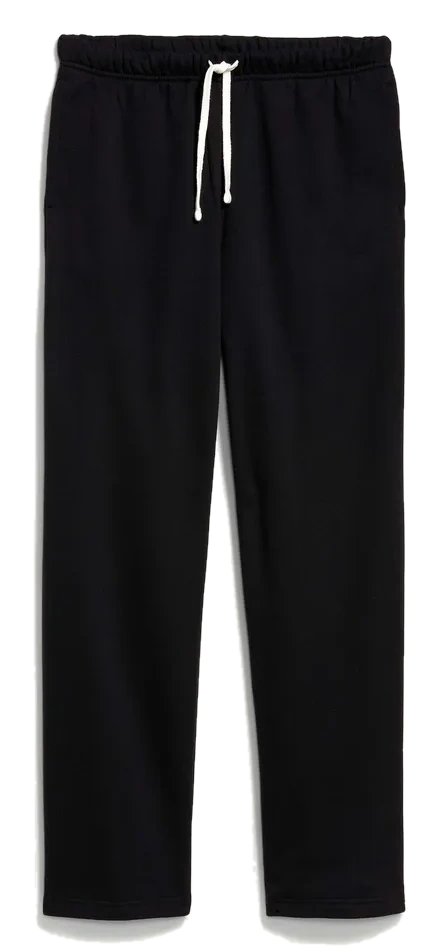
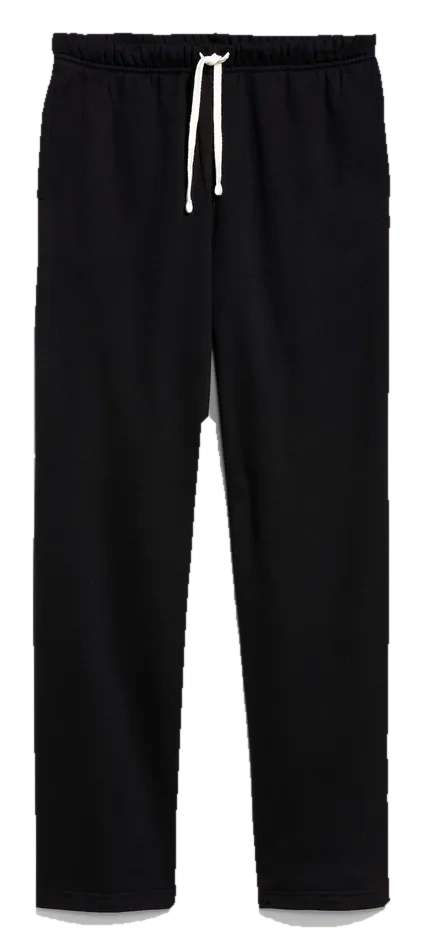
Restore original Polo and Fjallraven product framing

diff --git a/index.html b/index.html
@@ -27,7 +27,7 @@
 </main><footer class="footer"><span>Panoply · The Closet</span><span>Easy pieces, good fit, room to evolve.</span></footer>
 </div>
 <dialog id="detail"><button class="close" aria-label="Close">×</button><div class="modal-photo" id="modalPhoto"></div><div class="modal-info"><div class="card-kicker" id="modalCategory"></div><div class="card-brand" id="modalBrand"></div><h2 id="modalName"></h2><p id="modalColor"></p><p id="modalMeta" class="modal-meta"></p></div></dialog>
-<script id="wardrobe-data" type="application/json">{"styles":39,"pieces":46,"items":[{"brand":"Ralph Lauren","name":"Featherweight Mesh Shirt","color":"White","category":"Button-downs","group":"tops","quantity":2,"image":"assets/cutouts/ralph-lauren-featherweight-mesh-white.webp"},{"brand":"Ralph Lauren","name":"Featherweight Mesh Shirt","color":"Aviator Navy","category":"Button-downs","group":"tops","quantity":2,"image":"assets/cutouts/ralph-lauren-featherweight-mesh-aviator-navy.webp"},{"brand":"Ralph Lauren","name":"The Iconic Mesh Polo Shirt","color":"White","category":"Polos","group":"tops","quantity":1,"image":"assets/cutouts/ralph-lauren-iconic-mesh-polo-white.webp"},{"brand":"Ralph Lauren","name":"The Iconic Mesh Polo Shirt","color":"Light Navy","category":"Polos","group":"tops","quantity":1,"image":"assets/cutouts/ralph-lauren-iconic-mesh-polo-light-navy.webp"},{"brand":"L.L.Bean","name":"Carefree Unshrinkable T-Shirt Without Pocket, Short Sleeve","color":"Black","category":"Tees","group":"tops","quantity":2,"image":"assets/cutouts/llbean-carefree-tee-black.webp"},{"brand":"L.L.Bean","name":"Carefree Unshrinkable T-Shirt Without Pocket, Short Sleeve","color":"White","category":"Tees","group":"tops","quantity":2,"image":"assets/cutouts/llbean-carefree-tee-white.webp"},{"brand":"Old Navy","name":"Oversized Heavyweight Garment-Washed T-Shirt","color":"Panthers","category":"Tees","group":"tops","quantity":3,"image":"assets/cutouts/old-navy-panthers-tee.webp"},{"brand":"Old Navy","name":"Oversized Heavyweight Garment-Washed T-Shirt","color":"Sea Salt","category":"Tees","group":"tops","quantity":2,"image":"assets/cutouts/old-navy-sea-salt-tee.webp"},{"brand":"Gap","name":"GapFit Tech Fleece Hoodie","color":"Gray Heather","category":"Hoodies","group":"layers","quantity":1,"image":"assets/cutouts/gapfit-tech-fleece-gray-heather.webp"},{"brand":"Gap","name":"Vintage Soft Full-Zip Hoodie","color":"True Black","category":"Hoodies","group":"layers","quantity":1,"image":null},{"brand":"Gap","name":"Vintage Soft Hoodie","color":"True Black","category":"Hoodies","group":"layers","quantity":1,"image":"assets/cutouts/gap-vintage-soft-hoodie-true-black.webp"},{"brand":"Gap","name":"Vintage Soft Hoodie","color":"Light Heather Grey","category":"Hoodies","group":"layers","quantity":1,"image":"assets/cutouts/gap-vintage-soft-hoodie-light-heather-grey.webp"},{"brand":"Gap","name":"Vintage Soft Hoodie","color":"Blue","category":"Hoodies","group":"layers","quantity":1,"image":"assets/cutouts/gap-vintage-soft-hoodie-blue.webp"},{"brand":"Old Navy","name":"Oversized Rotation Hoodie","color":"Washed Olive","category":"Hoodies","group":"layers","quantity":1,"image":"assets/cutouts/old-navy-rotation-hoodie-washed-olive.webp"},{"brand":"Old Navy","name":"Rotation Pullover Hoodie","color":"A Stone's Throw","category":"Hoodies","group":"layers","quantity":1,"image":"assets/cutouts/old-navy-stones-throw-hoodie.webp"},{"brand":"Old Navy","name":"Rotation Pullover Hoodie","color":"Off White","category":"Hoodies","group":"layers","quantity":1,"image":"assets/cutouts/old-navy-rotation-pullover-hoodie-off-white.webp","note":"Photo is a stand-in for now."},{"brand":"L.L.Bean","name":"Fleece-Lined Flannel Hooded Snap-Front Shirt","color":"Black Watch","category":"Shirt jackets","group":"layers","quantity":1,"image":"assets/cutouts/llbean-fleece-lined-flannel-black-watch.webp"},{"brand":"L.L.Bean","name":"Hooded PrimaLoft-Lined Shirt Jac Slightly Fitted Plaid","color":"Marine Blue","category":"Shirt jackets","group":"layers","quantity":1,"image":"assets/cutouts/llbean-hooded-primaloft-marine-blue.webp"},{"brand":"L.L.Bean","name":"Quilted Flannel Shirt Jacket","color":"Orange/cream plaid; olive quilted lining (observed)","category":"Shirt jackets","group":"layers","quantity":1,"image":null},{"brand":"L.L.Bean","name":"Quilted Flannel Shirt Jacket","color":"Dark green/navy plaid; red quilted lining (observed)","category":"Shirt jackets","group":"layers","quantity":1,"image":null},{"brand":"L.L.Bean","name":"Scotch Plaid Hooded Shirt","color":"Blue/cream windowpane plaid (observed; official color unverified)","category":"Shirt jackets","group":"layers","quantity":1,"image":null},{"brand":"Polo Ralph Lauren","name":"Polo Prepster Linen Short","color":"Heritage Royal","category":"Shorts","group":"bottoms","quantity":1,"image":"assets/cutouts/polo-prepster-heritage-royal-shorts.webp"},{"brand":"Polo Ralph Lauren","name":"Polo Prepster Stretch Chino Short","color":"White","category":"Shorts","group":"bottoms","quantity":1,"image":"assets/cutouts/polo-prepster-white-shorts.webp"},{"brand":"Hollister","name":"Feel Good Bootcut Sweatpants","color":"Black","category":"Sweatpants","group":"bottoms","quantity":1,"image":"assets/cutouts/hollister-feel-good-bootcut-black.webp"},{"brand":"Hollister","name":"Feel Good Bootcut Sweatpants","color":"Dark Gray","category":"Sweatpants","group":"bottoms","quantity":1,"image":"assets/cutouts/hollister-feel-good-bootcut-dark-gray.webp"},{"brand":"Hollister","name":"Feel Good Bootcut Sweatpants","color":"Light Heather Gray","category":"Sweatpants","group":"bottoms","quantity":1,"image":"assets/cutouts/hollister-feel-good-bootcut-light-heather-gray.webp"},{"brand":"Old Navy","name":"Baggy Rotation Sweatpants","color":"Black Jack","category":"Sweatpants","group":"bottoms","quantity":1,"image":"assets/cutouts/old-navy-baggy-rotation-black-jack.webp"},{"brand":"Old Navy","name":"Baggy Rotation Sweatpants","color":"Medium Gray","category":"Sweatpants","group":"bottoms","quantity":1,"image":"assets/cutouts/old-navy-baggy-rotation-medium-gray.webp"},{"brand":"Old Navy","name":"Heavyweight Baggy Sweatpants","color":"Black Jack","category":"Sweatpants","group":"bottoms","quantity":1,"image":"assets/cutouts/old-navy-heavyweight-black-jack.webp"},{"brand":"Old Navy","name":"Heavyweight Baggy Sweatpants","color":"Stainless Steel","category":"Sweatpants","group":"bottoms","quantity":1,"image":"assets/cutouts/old-navy-heavyweight-stainless-steel.webp"},{"brand":"Fjällräven","name":"Barents Pro Pants","color":"Color not listed","category":"Trousers","group":"bottoms","quantity":1,"image":null},{"brand":"Fjällräven","name":"Vidda Pro Ventilated Trousers","color":"Dark Grey/Black","category":"Trousers","group":"bottoms","quantity":1,"image":"assets/cutouts/fjallraven-vidda-pro-dark-grey-black.webp"},{"brand":"Fjällräven","name":"Vidda Pro Ventilated Trousers","color":"Dark Olive","category":"Trousers","group":"bottoms","quantity":1,"image":"assets/cutouts/fjallraven-vidda-pro-dark-olive.webp"},{"brand":"New Balance","name":"Fresh Foam X Hierro v8","color":"Shadow Grey / Quarry Blue / Black","category":"Shoes","group":"shoes","quantity":1,"image":"assets/cutouts/new-balance-hierro-shadow-grey.webp"},{"brand":"New Balance","name":"Fresh Foam X Hierro v8 GORE-TEX","color":"Black / Phantom / Magnet","category":"Shoes","group":"shoes","quantity":1,"image":"assets/cutouts/new-balance-hierro-gtx-black-phantom-magnet.webp"},{"brand":"New Balance","name":"Fresh Foam X More V5 Running Shoe","color":"Black / Linen / Silver Metallic","category":"Shoes","group":"shoes","quantity":1,"image":"assets/cutouts/new-balance-fresh-foam-more-v5-black.webp"},{"brand":"UGG","name":"Ascot Suede Slipper","color":"Chestnut","category":"Shoes","group":"shoes","quantity":1,"image":"assets/cutouts/ugg-ascot-chestnut.webp"},{"brand":"UGG","name":"Ascot Suede Slipper","color":"Caribou","category":"Shoes","group":"shoes","quantity":1,"image":"assets/cutouts/ugg-ascot-caribou.webp"},{"brand":"Nike","name":"Air Force 1 '07","color":"White/White","category":"Shoes","group":"shoes","quantity":1,"pending":true,"image":"assets/cutouts/nike-af1-white-white.webp"}]}</script>
+<script id="wardrobe-data" type="application/json">{"styles":39,"pieces":46,"items":[{"brand":"Ralph Lauren","name":"Featherweight Mesh Shirt","color":"White","category":"Button-downs","group":"tops","quantity":2,"image":"assets/product-photos/ralph-lauren-featherweight-mesh-white.webp"},{"brand":"Ralph Lauren","name":"Featherweight Mesh Shirt","color":"Aviator Navy","category":"Button-downs","group":"tops","quantity":2,"image":"assets/product-photos/ralph-lauren-featherweight-mesh-aviator-navy.webp"},{"brand":"Ralph Lauren","name":"The Iconic Mesh Polo Shirt","color":"White","category":"Polos","group":"tops","quantity":1,"image":"assets/product-photos/ralph-lauren-iconic-mesh-polo-white.webp"},{"brand":"Ralph Lauren","name":"The Iconic Mesh Polo Shirt","color":"Light Navy","category":"Polos","group":"tops","quantity":1,"image":"assets/product-photos/ralph-lauren-iconic-mesh-polo-light-navy.webp"},{"brand":"L.L.Bean","name":"Carefree Unshrinkable T-Shirt Without Pocket, Short Sleeve","color":"Black","category":"Tees","group":"tops","quantity":2,"image":"assets/cutouts/llbean-carefree-tee-black.webp"},{"brand":"L.L.Bean","name":"Carefree Unshrinkable T-Shirt Without Pocket, Short Sleeve","color":"White","category":"Tees","group":"tops","quantity":2,"image":"assets/cutouts/llbean-carefree-tee-white.webp"},{"brand":"Old Navy","name":"Oversized Heavyweight Garment-Washed T-Shirt","color":"Panthers","category":"Tees","group":"tops","quantity":3,"image":"assets/cutouts/old-navy-panthers-tee.webp"},{"brand":"Old Navy","name":"Oversized Heavyweight Garment-Washed T-Shirt","color":"Sea Salt","category":"Tees","group":"tops","quantity":2,"image":"assets/cutouts/old-navy-sea-salt-tee.webp"},{"brand":"Gap","name":"GapFit Tech Fleece Hoodie","color":"Gray Heather","category":"Hoodies","group":"layers","quantity":1,"image":"assets/cutouts/gapfit-tech-fleece-gray-heather.webp"},{"brand":"Gap","name":"Vintage Soft Full-Zip Hoodie","color":"True Black","category":"Hoodies","group":"layers","quantity":1,"image":null},{"brand":"Gap","name":"Vintage Soft Hoodie","color":"True Black","category":"Hoodies","group":"layers","quantity":1,"image":"assets/cutouts/gap-vintage-soft-hoodie-true-black.webp"},{"brand":"Gap","name":"Vintage Soft Hoodie","color":"Light Heather Grey","category":"Hoodies","group":"layers","quantity":1,"image":"assets/cutouts/gap-vintage-soft-hoodie-light-heather-grey.webp"},{"brand":"Gap","name":"Vintage Soft Hoodie","color":"Blue","category":"Hoodies","group":"layers","quantity":1,"image":"assets/cutouts/gap-vintage-soft-hoodie-blue.webp"},{"brand":"Old Navy","name":"Oversized Rotation Hoodie","color":"Washed Olive","category":"Hoodies","group":"layers","quantity":1,"image":"assets/cutouts/old-navy-rotation-hoodie-washed-olive.webp"},{"brand":"Old Navy","name":"Rotation Pullover Hoodie","color":"A Stone's Throw","category":"Hoodies","group":"layers","quantity":1,"image":"assets/cutouts/old-navy-stones-throw-hoodie.webp"},{"brand":"Old Navy","name":"Rotation Pullover Hoodie","color":"Off White","category":"Hoodies","group":"layers","quantity":1,"image":"assets/cutouts/old-navy-rotation-pullover-hoodie-off-white.webp","note":"Photo is a stand-in for now."},{"brand":"L.L.Bean","name":"Fleece-Lined Flannel Hooded Snap-Front Shirt","color":"Black Watch","category":"Shirt jackets","group":"layers","quantity":1,"image":"assets/cutouts/llbean-fleece-lined-flannel-black-watch.webp"},{"brand":"L.L.Bean","name":"Hooded PrimaLoft-Lined Shirt Jac Slightly Fitted Plaid","color":"Marine Blue","category":"Shirt jackets","group":"layers","quantity":1,"image":"assets/cutouts/llbean-hooded-primaloft-marine-blue.webp"},{"brand":"L.L.Bean","name":"Quilted Flannel Shirt Jacket","color":"Orange/cream plaid; olive quilted lining (observed)","category":"Shirt jackets","group":"layers","quantity":1,"image":null},{"brand":"L.L.Bean","name":"Quilted Flannel Shirt Jacket","color":"Dark green/navy plaid; red quilted lining (observed)","category":"Shirt jackets","group":"layers","quantity":1,"image":null},{"brand":"L.L.Bean","name":"Scotch Plaid Hooded Shirt","color":"Blue/cream windowpane plaid (observed; official color unverified)","category":"Shirt jackets","group":"layers","quantity":1,"image":null},{"brand":"Polo Ralph Lauren","name":"Polo Prepster Linen Short","color":"Heritage Royal","category":"Shorts","group":"bottoms","quantity":1,"image":"assets/product-photos/polo-prepster-heritage-royal-shorts.webp"},{"brand":"Polo Ralph Lauren","name":"Polo Prepster Stretch Chino Short","color":"White","category":"Shorts","group":"bottoms","quantity":1,"image":"assets/product-photos/polo-prepster-white-shorts.webp"},{"brand":"Hollister","name":"Feel Good Bootcut Sweatpants","color":"Black","category":"Sweatpants","group":"bottoms","quantity":1,"image":"assets/cutouts/hollister-feel-good-bootcut-black.webp"},{"brand":"Hollister","name":"Feel Good Bootcut Sweatpants","color":"Dark Gray","category":"Sweatpants","group":"bottoms","quantity":1,"image":"assets/cutouts/hollister-feel-good-bootcut-dark-gray.webp"},{"brand":"Hollister","name":"Feel Good Bootcut Sweatpants","color":"Light Heather Gray","category":"Sweatpants","group":"bottoms","quantity":1,"image":"assets/cutouts/hollister-feel-good-bootcut-light-heather-gray.webp"},{"brand":"Old Navy","name":"Baggy Rotation Sweatpants","color":"Black Jack","category":"Sweatpants","group":"bottoms","quantity":1,"image":"assets/cutouts/old-navy-baggy-rotation-black-jack.webp"},{"brand":"Old Navy","name":"Baggy Rotation Sweatpants","color":"Medium Gray","category":"Sweatpants","group":"bottoms","quantity":1,"image":"assets/cutouts/old-navy-baggy-rotation-medium-gray.webp"},{"brand":"Old Navy","name":"Heavyweight Baggy Sweatpants","color":"Black Jack","category":"Sweatpants","group":"bottoms","quantity":1,"image":"assets/cutouts/old-navy-heavyweight-black-jack.webp"},{"brand":"Old Navy","name":"Heavyweight Baggy Sweatpants","color":"Stainless Steel","category":"Sweatpants","group":"bottoms","quantity":1,"image":"assets/cutouts/old-navy-heavyweight-stainless-steel.webp"},{"brand":"Fjällräven","name":"Barents Pro Pants","color":"Color not listed","category":"Trousers","group":"bottoms","quantity":1,"image":null},{"brand":"Fjällräven","name":"Vidda Pro Ventilated Trousers","color":"Dark Grey/Black","category":"Trousers","group":"bottoms","quantity":1,"image":"assets/product-photos/fjallraven-vidda-pro-dark-grey-black.webp"},{"brand":"Fjällräven","name":"Vidda Pro Ventilated Trousers","color":"Dark Olive","category":"Trousers","group":"bottoms","quantity":1,"image":"assets/product-photos/fjallraven-vidda-pro-dark-olive.webp"},{"brand":"New Balance","name":"Fresh Foam X Hierro v8","color":"Shadow Grey / Quarry Blue / Black","category":"Shoes","group":"shoes","quantity":1,"image":"assets/cutouts/new-balance-hierro-shadow-grey.webp"},{"brand":"New Balance","name":"Fresh Foam X Hierro v8 GORE-TEX","color":"Black / Phantom / Magnet","category":"Shoes","group":"shoes","quantity":1,"image":"assets/cutouts/new-balance-hierro-gtx-black-phantom-magnet.webp"},{"brand":"New Balance","name":"Fresh Foam X More V5 Running Shoe","color":"Black / Linen / Silver Metallic","category":"Shoes","group":"shoes","quantity":1,"image":"assets/cutouts/new-balance-fresh-foam-more-v5-black.webp"},{"brand":"UGG","name":"Ascot Suede Slipper","color":"Chestnut","category":"Shoes","group":"shoes","quantity":1,"image":"assets/cutouts/ugg-ascot-chestnut.webp"},{"brand":"UGG","name":"Ascot Suede Slipper","color":"Caribou","category":"Shoes","group":"shoes","quantity":1,"image":"assets/cutouts/ugg-ascot-caribou.webp"},{"brand":"Nike","name":"Air Force 1 '07","color":"White/White","category":"Shoes","group":"shoes","quantity":1,"pending":true,"image":"assets/cutouts/nike-af1-white-white.webp"}]}</script>
 <script>
 const data=JSON.parse(document.getElementById("wardrobe-data").textContent),items=data.items||[];let active="all",query="";const grid=document.getElementById("grid"),result=document.getElementById("results");
 function esc(s){return String(s||"").replace(/[&<>"']/g,c=>({"&":"&amp;","<":"&lt;",">":"&gt;",'"':"&quot;","'":"&#39;"}[c]))}
